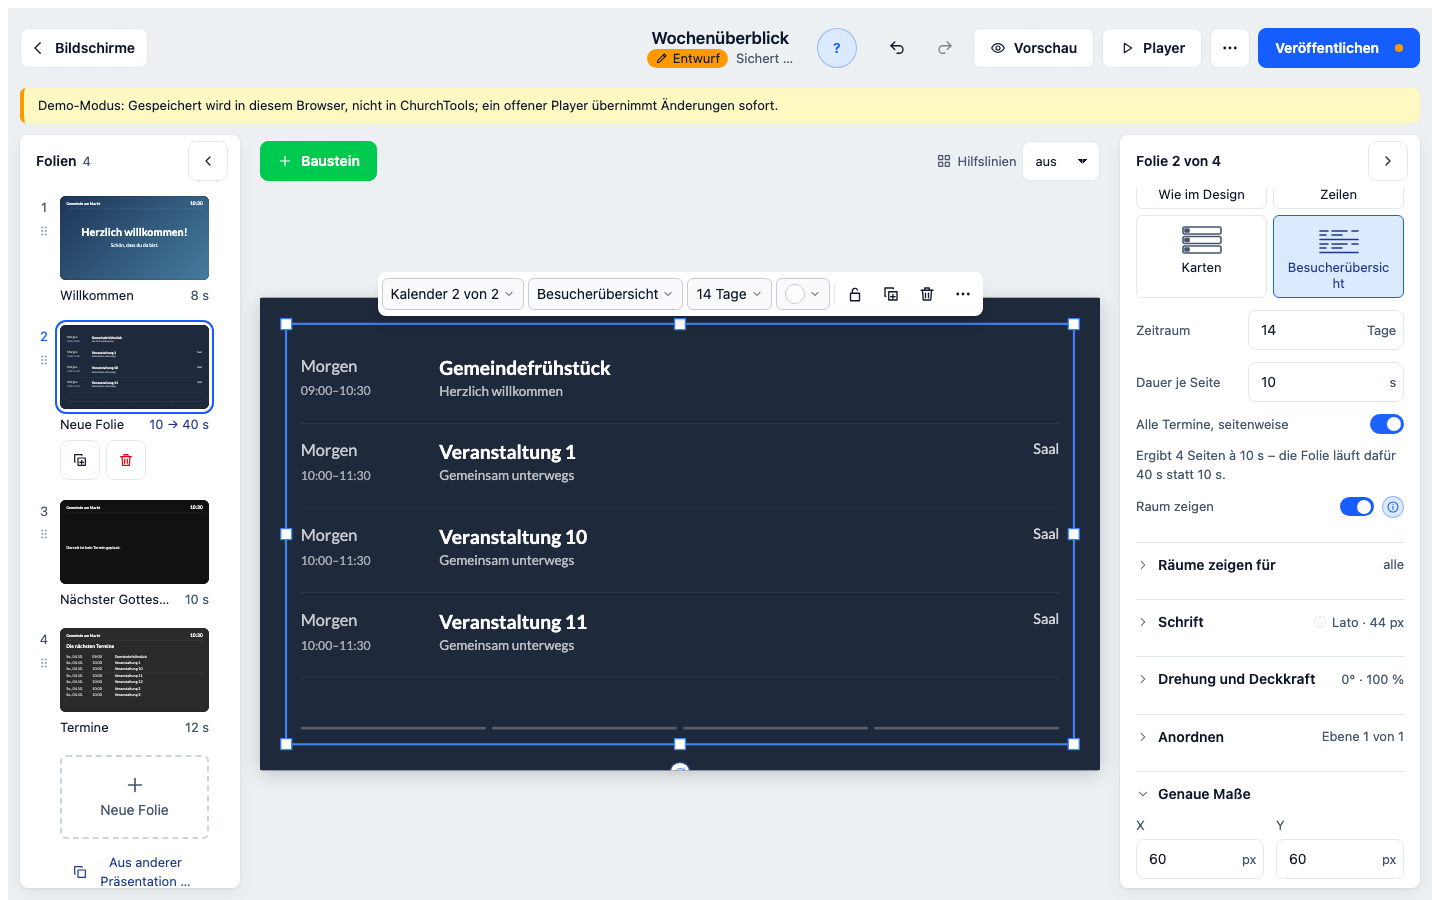
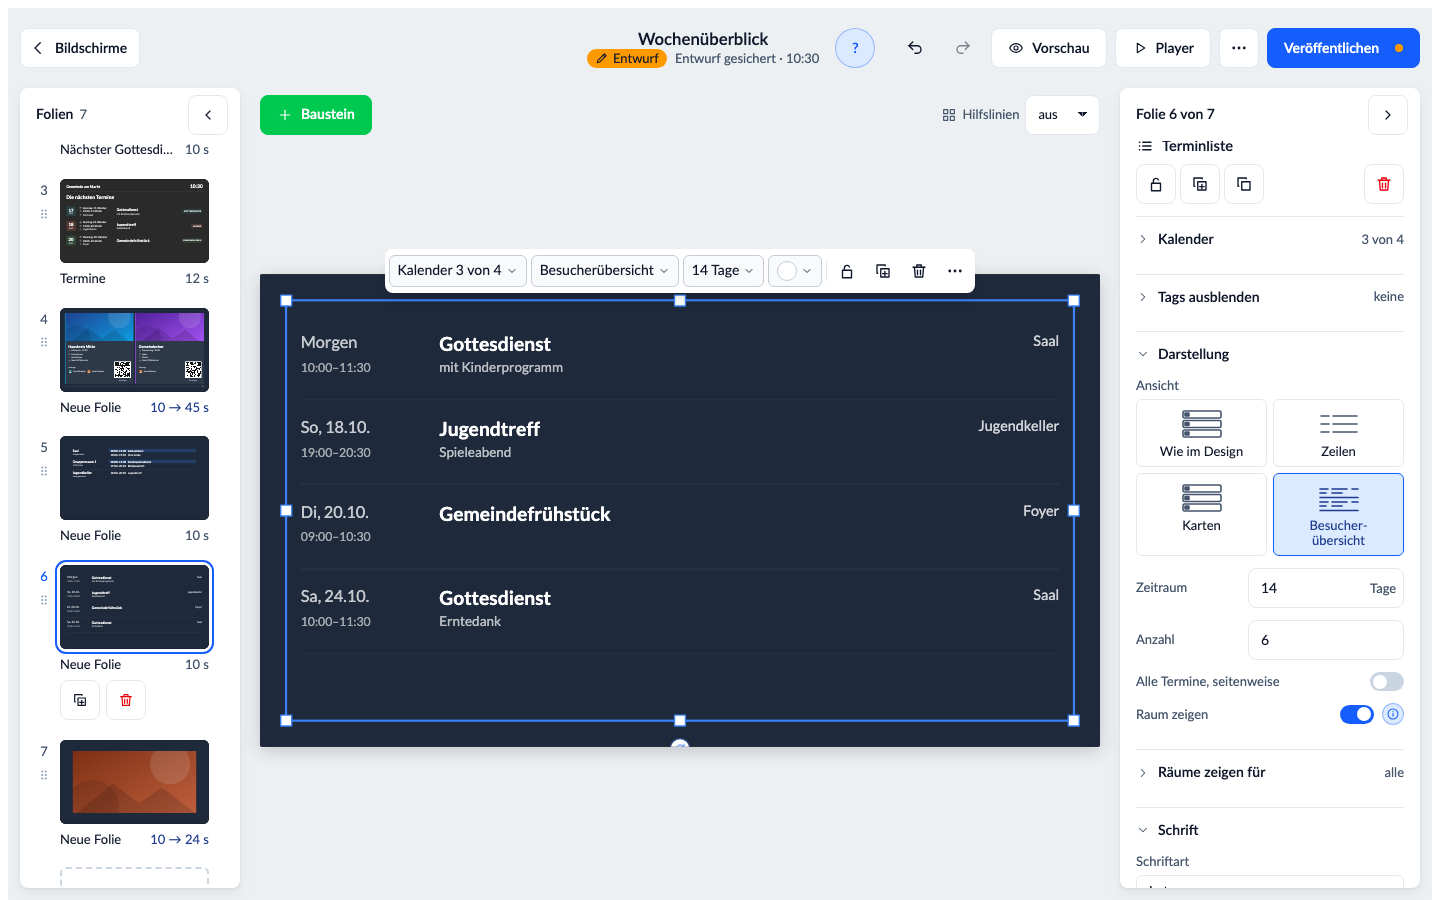
Besucheruebersicht: Raum vor Ort, Schema 1.43, Doku-Bild im Bilder-Test
Die rechte Spalte nennt den gebuchten Raum und ohne Raum den eingetragenen
Ort: Besucher im Foyer suchen den Weg im Haus, und als Ort stuende oft ueberall
derselbe Gemeindename. Ein Termin nur mit Adresse zeigt damit etwas.

Schema 1.41 und 1.42 sind mit Vorlagen und Aufteilung belegt, daher 1.43. Das
Doku-Bild entsteht jetzt in docs-screenshots.spec.ts statt in rooms.spec.ts,
der Kachelname trennt an der Fuge, der Arbeitsabschnitt in Plan.md entfaellt.

diff --git a/e2e/rooms.spec.ts b/e2e/rooms.spec.ts
@@ -686,7 +686,7 @@ test('visitor overview is offered by the appointment list and shares its rooms a
         return host === '127.0.0.1' || host === 'localhost' ? route.continue() : route.abort();
     });
     const appointments = [
-        scheduled(19, GOTTESDIENSTE, 'Gemeindefrühstück', '2026-10-04T07:00:00Z', { subtitle: 'Herzlich willkommen' }),
+        scheduled(19, GOTTESDIENSTE, 'Gemeindefrühstück', '2026-10-04T07:00:00Z', { subtitle: 'Herzlich willkommen', place: 'Marktplatz 1' }),
         ...Array.from({ length: 12 }, (_, i) => scheduled(i + 20, GOTTESDIENSTE, `Veranstaltung ${i + 1}`, '2026-10-04T08:00:00Z', { subtitle: 'Gemeinsam unterwegs', place: 'Eingetragener Ort', rooms: [1] })),
     ];
     // A custom resource type must be chosen in the upstream settings before the visitor layout uses its rooms.
@@ -706,7 +706,7 @@ test('visitor overview is offered by the appointment list and shares its rooms a
     await newBlock(page, 'appointment-list');
     await expect(page.getByTestId('section-appearance')).not.toHaveAttribute('open');
     await openSection(page, 'appearance');
-    await expect(page.getByTestId('list-layout').getByText('Besucherübersicht', { exact: true })).toBeVisible();
+    await expect(page.getByTestId('list-layout').getByText(/^Besucher\u00ad?übersicht$/)).toBeVisible();
     await choose(page, 'list-layout', 'visitor');
     await page.getByTestId('section-appearance-toggle').click();
     await expect(page.getByTestId('section-appearance-toggle')).toContainText('Besucherübersicht · 14 Tage');
@@ -726,7 +726,8 @@ test('visitor overview is offered by the appointment list and shares its rooms a
     await page.getByTestId('show-all').check();
     const preview = stage(page).locator('.paged--visitor');
     await expect(preview.getByTestId('list-visitor-row').first()).toContainText('Gemeindefrühstück');
-    await expect(preview.getByTestId('list-visitor-room').first()).toHaveText('');
+    // Rooms before the place: without a room the place stands, with one only the room.
+    await expect(preview.getByTestId('list-visitor-room').first()).toHaveText('Marktplatz 1');
     await expect(preview.getByTestId('list-visitor-row').nth(1)).toContainText('Gemeinsam unterwegs');
     await expect(preview.getByTestId('list-visitor-room').nth(1)).toHaveText('Saal');
     await expect(preview.getByTestId('list-visitor-room').nth(1)).toHaveCSS('text-align', 'right');
@@ -735,11 +736,10 @@ test('visitor overview is offered by the appointment list and shares its rooms a
     // Existing room choices affect the names, never the appointments.
     const count = await preview.getByTestId('list-visitor-row').count();
     await page.getByTestId('show-rooms').uncheck();
-    await expect(preview.getByTestId('list-visitor-room').nth(1)).toHaveText('');
+    await expect(preview.getByTestId('list-visitor-room').nth(1)).toHaveText('Eingetragener Ort');
     await expect(preview.getByTestId('list-visitor-row')).toHaveCount(count);
     await page.getByTestId('show-rooms').check();
     await expect(preview.getByTestId('list-visitor-room').nth(1)).toHaveText('Saal');
-    await page.screenshot({ path: 'docs/bilder/terminliste-besucher.png' });
     // Put the selected slide first, regardless of where new slides are inserted.
     await nudgeRow(page.locator('[data-testid="slide-item"].active').getByTestId('slide-handle'), 'ArrowUp');
     await page.keyboard.press('ArrowUp');

diff --git a/src/player/visitor-list.test.ts b/src/player/visitor-list.test.ts
@@ -59,7 +59,7 @@ describe('visitor overview as a layout of the appointment list', () => {
         expect(appointmentServiceIds(block({ services: [1] }))).toEqual([]);
     });
 
-    it('shows dates over times, subtitles and actual booked rooms without replacing them with the address', async () => {
+    it('shows dates over times, subtitles and the booked rooms before the place', async () => {
         const { wrapper } = render();
         await flushPromises();
         const rows = wrapper.findAll('[data-testid="list-visitor-row"]');
@@ -69,24 +69,24 @@ describe('visitor overview as a layout of the appointment list', () => {
         expect(rows[0]!.find('.visitor-subtitle').text()).toBe('Gemeinsam essen');
         expect(rows[0]!.find('[data-testid="list-visitor-room"]').text()).toBe('Saal');
         expect(rows[1]!.find('.visitor-title').text()).toBe('Termin 2');
-        expect(rows[1]!.find('[data-testid="list-visitor-room"]').text()).toBe('');
+        expect(rows[1]!.find('[data-testid="list-visitor-room"]').text()).toBe('Eingetragener Ort');
         expect(rows[2]!.find('.visitor-subtitle').exists()).toBe(false);
         expect(wrapper.find('.paged').attributes('style')).toContain('color: rgb(171, 205, 239)');
         expect(wrapper.find('.paged').attributes('style')).not.toContain('background');
         wrapper.unmount();
     });
 
-    it('uses the existing room switches without removing appointments', async () => {
+    it('uses the existing room switches without removing appointments, the place standing in', async () => {
         const { wrapper, list } = render({ roomsOffIds: [1], roomsInRows: false });
         await flushPromises();
         expect(wrapper.findAll('[data-testid="list-visitor-row"]')).toHaveLength(3);
-        expect(wrapper.findAll('[data-testid="list-visitor-room"]').map((r) => r.text())).toEqual(['', '', '']);
+        expect(wrapper.findAll('[data-testid="list-visitor-room"]').map((r) => r.text())).toEqual(['Eingetragener Ort', 'Eingetragener Ort', 'Eingetragener Ort']);
         list.roomsOffIds = [];
         await flushPromises();
         expect(wrapper.find('[data-testid="list-visitor-room"]').text()).toBe('Saal');
         list.roomsOffCalendarIds = [1];
         await flushPromises();
-        expect(wrapper.findAll('[data-testid="list-visitor-room"]').every((r) => !r.text())).toBe(true);
+        expect(wrapper.findAll('[data-testid="list-visitor-room"]').every((r) => r.text() === 'Eingetragener Ort')).toBe(true);
         expect(wrapper.findAll('[data-testid="list-visitor-row"]')).toHaveLength(3);
         wrapper.unmount();
     });

diff --git a/src/player/format.test.ts b/src/player/format.test.ts
@@ -1,6 +1,6 @@
 import { describe, expect, it } from 'vitest';
 import type { Block, TextStyle } from '../model/schema';
-import { textStyle, calendarColor, formatDate, formatShortDate, formatTime, placeLine, servicesLine, sizedImageUrl, WIDEST_DATE, textOn, VERTICAL_DEFAULTS, verticalAlignOf, verticalStyle } from './format';
+import { textStyle, calendarColor, formatDate, formatShortDate, formatTime, placeLine, servicesLine, visitorPlace, sizedImageUrl, WIDEST_DATE, textOn, VERTICAL_DEFAULTS, verticalAlignOf, verticalStyle } from './format';
 
 describe('sizedImageUrl', () => {
     it('always sets both dimensions, because w alone yields a 150 px high image (G14)', () => {
@@ -185,5 +185,13 @@ describe('placeLine (Plan.md 82)', () => {
         expect(placeLine({ location: 'Gemeindezentrum' }, ['Saal'])).toBe('Gemeindezentrum');
         expect(placeLine({ location: null }, ['Saal', 'Raum 01'])).toBe('Saal, Raum 01');
         expect(placeLine({ location: null }, [])).toBeNull();
+    });
+});
+
+describe('visitorPlace', () => {
+    it('puts the rooms before the place, and names the place without one', () => {
+        expect(visitorPlace({ location: 'Gemeindezentrum' }, ['Saal', 'Raum 01'])).toBe('Saal, Raum 01');
+        expect(visitorPlace({ location: 'Marktplatz 1' }, [])).toBe('Marktplatz 1');
+        expect(visitorPlace({ location: null }, [])).toBeNull();
     });
 });

diff --git a/src/i18n/designer.ts b/src/i18n/designer.ts
@@ -557,6 +557,8 @@ export const t = {
         layoutDesign: 'Wie im Design',
         layoutRows: 'Zeilen',
         layoutVisitor: 'Besucherübersicht',
+        /** The tile is narrow: the soft hyphen breaks the word at its seam, not between two letters. */
+        layoutVisitorTile: 'Besucher\u00adübersicht',
         layoutCards: 'Karten',
         layoutClassic: 'Schlicht',
         layoutCard: 'Hervorgehoben',
@@ -572,7 +574,7 @@ export const t = {
         showCalendar: 'Kalender zeigen',
         showRoomInfo: (visitor = false) =>
             (visitor
-                ? 'Zeigt die ausgewählten gebuchten Räume rechtsbündig, unabhängig vom eingetragenen Ort. Termine ohne Raum bleiben sichtbar. '
+                ? 'Zeigt die ausgewählten gebuchten Räume rechtsbündig; hat ein Termin keinen, steht dort der eingetragene Ort. Termine ohne Raum bleiben sichtbar. '
                 : 'Zeigt die gebuchten Räume des Termins: in Zeilen am Ende der Zeile, bei Karten und beim nächsten Termin mit der Pin-Nadel. Ein eingetragener Ort geht vor, damit nichts doppelt steht. ') +
             'Nur bestätigte Buchungen, keine, die noch warten. Damit der Fernseher sie sieht, bekommt das Gerät mit „Rechte aktualisieren“ ' +
             'das Recht, alle Räume zu sehen; zeigt kein Bildschirm mehr Räume an Terminen, nimmt „Rechte aktualisieren“ es zurück.',

diff --git a/src/player/blocks/AppointmentRow.vue b/src/player/blocks/AppointmentRow.vue
@@ -7,7 +7,7 @@
  */
 import { computed } from 'vue';
 import type { Appointment } from '../../appointments/normalize';
-import { formatDate, formatShortDate, WIDEST_DATE, placeLine, servicesLine, timeRange } from '../format';
+import { formatDate, formatShortDate, WIDEST_DATE, placeLine, servicesLine, visitorPlace, timeRange } from '../format';
 import CalendarBadge from './CalendarBadge.vue';
 import DateTile from './DateTile.vue';
 import { tp } from '../../i18n/player';
@@ -86,7 +86,7 @@ const visitorDate = computed(() => {
             <span class="visitor-title">{{ appointment.title }}</span>
             <span v-if="appointment.subtitle" class="visitor-subtitle">{{ appointment.subtitle }}</span>
         </span>
-        <span class="visitor-room" :data-testid="measuring ? undefined : 'list-visitor-room'">{{ showRooms ? (roomNames ?? []).join(', ') : '' }}</span>
+        <span class="visitor-room" :data-testid="measuring ? undefined : 'list-visitor-room'">{{ visitorPlace(appointment, showRooms ? roomNames ?? [] : []) }}</span>
     </li>
     <li v-else class="row" :class="{ 'row--place': rowPlace }">
         <span class="when">{{ formatShortDate(appointment.start, timeZone) }}</span>

diff --git a/e2e/docs-screenshots.spec.ts b/e2e/docs-screenshots.spec.ts
@@ -493,6 +493,16 @@ test('pictures for the documentation', async ({ page, baseURL }) => {
     await expect(page.locator('.editor-stage').getByTestId('room-row')).toHaveCount(3);
     await shoot(page, 'raumbelegung');
 
+    // The visitor overview of the appointment list (PR #111): the booked room where there is one, else the place.
+    await page.getByTestId('add-slide').click();
+    await addBlock(page, 'appointment-list');
+    await frame(page, { x: 60, y: 60, width: 1800, height: 960 });
+    await openSection(page, 'appearance');
+    await choose(page, 'list-layout', 'visitor');
+    await page.getByTestId('show-rooms').check();
+    await expect(page.locator('.editor-stage').getByTestId('list-visitor-room').first()).toHaveText('Saal');
+    await shoot(page, 'terminliste-besucher');
+
     // Posts of ChurchTools groups (Plan.md 33).
     await page.getByTestId('add-slide').click();
     await addBlock(page, 'posts');

diff --git a/src/player/format.ts b/src/player/format.ts
@@ -186,6 +186,15 @@ export function placeLine(appointment: { location: string | null }, roomNames: r
 }
 
 /**
+ * The right column of the visitor overview: the rooms first, the place where none is named. There a visitor looks
+ * for the way through the house, and a place like the church's name would stand alike on every line – the other way
+ * round from `placeLine`. `roomNames`: the rooms this block names; null when there is nothing to say.
+ */
+export function visitorPlace(appointment: { location: string | null }, roomNames: readonly string[]): string | null {
+    return roomNames.join(', ') || appointment.location || null;
+}
+
+/**
  * The service line of an appointment: "Predigt: Anna Beispiel · Moderation: Ben Muster, Cora Test".
  * Only the services this block chose, in the order of the appointment's own list; null when there
  * is nothing to say (Plan.md, Nächste Schritte 51).

diff --git a/src/store/screen-repository.test.ts b/src/store/screen-repository.test.ts
@@ -806,7 +806,7 @@ describe('ScreenRepository', () => {
         it('saves new, updates against the revision and reports a conflict with the stored name', async () => {
             const first = await repo.saveTemplate(head, { expectedRevision: null, updatedBy: 'Anna' });
             expect(first).toMatchObject({ kind: 'template', revision: 1, updatedBy: 'Anna', name: 'Seitenkopf' });
-            expect(first.schema).toEqual({ major: 1, minor: 42 });
+            expect(first.schema).toEqual({ major: 1, minor: 43 });
             const second = await repo.saveTemplate({ ...head, name: 'Kopf' }, { expectedRevision: 1, updatedBy: 'Ben' });
             expect(second.revision).toBe(2);
             const error = await repo.saveTemplate({ ...head, name: 'Dritter' }, { expectedRevision: 1, updatedBy: 'Cleo' }).catch((e: unknown) => e);

diff --git a/src/designer/inspector/layouts.test.ts b/src/designer/inspector/layouts.test.ts
@@ -28,7 +28,7 @@ describe('the picture tiles of the blocks (Plan.md 79, B2)', () => {
     });
 
     it('offers the visitor overview as another layout of the existing appointment list', () => {
-        expect(appointmentListTiles(listBlock(), nativeTheme).find((tile) => tile.value === 'visitor')).toMatchObject({ label: 'Besucherübersicht', pictogram: 'list-visitor' });
+        expect(appointmentListTiles(listBlock(), nativeTheme).find((tile) => tile.value === 'visitor')).toMatchObject({ label: 'Besucher\u00adübersicht', pictogram: 'list-visitor' });
     });
 
     it('"Wie im Design" ignores the layout the block itself has: it names the theme', () => {

diff --git a/src/designer/inspector/layouts.ts b/src/designer/inspector/layouts.ts
@@ -12,7 +12,7 @@ export function appointmentListTiles(block: Extract<Block, { type: 'appointment-
         { value: '', label: t.inspector.layoutDesign, pictogram: listLayout({ ...block, layout: undefined }, theme) === 'cards' ? 'list-cards' : 'list-rows' },
         { value: 'rows', label: t.inspector.layoutRows, pictogram: 'list-rows' },
         { value: 'cards', label: t.inspector.layoutCards, pictogram: 'list-cards' },
-        { value: 'visitor', label: t.inspector.layoutVisitor, pictogram: 'list-visitor' },
+        { value: 'visitor', label: t.inspector.layoutVisitorTile, pictogram: 'list-visitor' },
     ];
 }
 

diff --git a/src/model/schema.ts b/src/model/schema.ts
@@ -162,7 +162,7 @@ export const AppointmentListBlock = v.object({
     /**
      * Since 1.8: `cards` – date tile, calendar badge, title, time and place, after
      * the list of the WordPress plugin (Plan.md, 20); `rows` is the plain list.
-     * Since 1.43: `visitor` – generous rows with date/time, subtitle and a separate room column.
+     * Since 1.43: `visitor` – generous rows with date/time, subtitle and a place column, the rooms before the place.
      */
     layout: v.optional(v.picklist(['rows', 'cards', 'visitor'])),
     /**

diff --git a/Plan.md b/Plan.md
@@ -11,7 +11,7 @@ Ein ChurchTools Custom Module (CCM), mit dem angemeldete ChurchTools-Anwender In
 **Offen, nach Rang** *(Maßstab ist der Pitch)*:
 
 1. **Rückmeldung des zweiten Testers abwarten** (Archiv, Punkt 85) – der Nutzer hat ihm geschrieben und wartet auf seine Antwort (2026-10-15): „Kalender zeigen“ seit `v0.21.0`, Social Media hat seit `v0.20.1` die Schrift, interne Kalender lassen sich seit `v0.23.0` freigeben.
-2. **PR #111 von Bernhard: „Besucherübersicht“ als vierte Darstellung der Terminliste** – durchgesehen am 2026-10-16, gut gemacht, vor dem Merge offen: (1) Schema 1.41 ist mit den Vorlagen belegt, 1.42 mit der Aufteilung – er braucht 1.43; (2) sein Abschnitt „Aktueller Auftrag“ gehört nicht in `Plan.md`; (3) das Doku-Bild schreibt ein Test in `rooms.spec.ts` statt `docs-screenshots.spec.ts`; (4) „Besucherübersicht“ bricht in der Kachel mitten im Wort. Zur Entscheidung beim Nutzer: dort steht der Raum statt des Orts (Abweichung von „Ort geht vor Raum“, `v0.17.1`), ein Termin nur mit Adresse zeigt rechts nichts. **Wird nach Paket B separat angegangen** (Nutzer, 2026-10-16); offen, ob Kommentar an Bernhard oder Korrektur beim Merge.
+2. **PR #111 von Bernhard: „Besucherübersicht“ als vierte Darstellung der Terminliste** – Anwendungsfall: ein Bildschirm im Eingang, an dem Besucher sehen, was heute und morgen läuft und in welchem Raum. Die Raumbelegung deckt das nicht ab (Buchungen statt Termine, nach Räumen statt nach Zeit). **Entschieden am 2026-10-16 (Nutzer):** seine Darstellung übernehmen statt „Zeilen“ zu erweitern; rechts gilt **„Raum vor Ort“** (`visitorPlace`), bewusst anders als „Ort geht vor Raum“ in Zeilen und Karten, weil der Ort oft überall derselbe Gemeindename wäre; die Korrekturen machen wir selbst auf seinem Zweig. **Erledigt auf dem Zweig:** main (`v0.28.0`) eingeführt, Schema 1.43, sein Abschnitt aus `Plan.md` entfernt, Doku-Bild aus `docs-screenshots.spec.ts`, weiches Trennzeichen im Kachelnamen. Offen: Kommentar an Bernhard, Merge, Release.
 3. **Wiederverwendbare Designs** (Punkt 87) – Idee von Bernhard (2026-10-15). **Paket A, verknüpfte Vorlagen (Schema 1.41), ist mit `v0.27.0` veröffentlicht, Paket B, die Aufteilung der Folie samt „Im Bereich fest“ und Einrasten beim Ziehen (Schema 1.42), mit `v0.28.0` (beide 2026-10-16).** Die Stile für Listen-Bausteine warten auf Bernhards Antwort, was er mit „Sammlungen“ meint.
 4. **Der Designer für alle** (Punkt 79) – gestalten ohne Technikhintergrund, am Handy wie am Rechner. Reihenfolge: **B1** Begriffe (Folie, Präsentation, Bildschirm) und eine Textdatei → **A** Ordnung auf der Fläche (Bauplan fertig) → **B2** ein Wort, ein Bedienelement je Sache → **B3** neuer Look → **C** Kurzmenü, Text auf der Fläche, Bedienung mit dem Finger → **E** Entwurf und Veröffentlichen → **D** mehrere Bausteine → **F** Kreativ. 17 Fragen mit dem Nutzer geklärt am 2026-10-08/09; offen sind die Testpersonen (Seitenrand: später). **Seit dem 2026-10-14 läuft der neue Designer auf der Produktivinstanz (`v0.19.1`)** – damit sind die Abnahme am Tablet und die Testpersonen dran.
    **Stand 2026-10-10:** **B1 bis F3 und der Baustein „Social Media“ (Punkt 80) sind gebaut und mit `v0.19.0` veröffentlicht.** Der Nutzer prüft per lokalem ZIP auf der Testinstanz. **C und E sind vom Nutzer abgenommen (2026-10-10), D bis auf die Rückmeldung unten.** Die Doku (`docs/Funktionen.md`, `docs/Onboarding.md`, `README.md`, alle Bilder samt `mehrere.png`) ist für C, D und E nachgezogen; die Bilder-Strecke lief seit C rot (eine eingefrorene Uhr ließ Vue den Klick auf einen Baustein verwerfen) und läuft wieder. **Rückmeldung zu D** *(Nutzer am Tablet, 2026-10-10; gebaut am selben Tag)*: (1) Die Knöpfe unter „Anordnen“ stießen an den Rand – jetzt eine Zeile je Achse, drei Kanten und daneben Verteilen. (2) Eine gewählte Gruppe richtete beim Ausrichten ihre Mitglieder gegeneinander aus – jetzt zählt sie wie ein Baustein: allein richtet sie sich an der Folie aus, mit anderen bewegt sie sich als Einheit, beim Verteilen zählt sie einfach (`unitsOf` in `arrange.ts`). (3) Am Tablet passte die Höhe nicht, der Inspektor musste gescrollt werden – der Editor nimmt jetzt `100dvh` statt `100vh`; das reichte nicht (Nutzer, 2026-10-10): Am iPad setzt ChurchTools nach dem Modul einen 56 px hohen App-Banner über die Kopfleiste, den die Messung des Abstands nach oben nicht bemerkte (Befunde.md G57) – jetzt beobachtet sie jedes Kind von `<body>`. (4) Die Kacheln der Mediathek-Seite haben ein „…“ mit „Löschen“ (Rest aus B3). **D ist abgenommen** (Nutzer, 2026-10-10), zuletzt die Gruppen in den Ebenen (Teil 5 unter Punkt 79, D9). **F1, F2 und F3 sind gebaut** *(Nutzer, 2026-10-10: „F1–F3 jetzt“, statt erst nach dem Mergen)* – als Fortsetzung der Kette `designer-d` → `designer-f1` → `designer-f2` → `designer-f3`, Schema 1.30 bis 1.32; die Abnahme am Tablet steht aus (Drehgriff und Ausschnitt mit dem Finger sind nur mit der Maus geprüft), die Bilder der Doku zeigen F seit dem 2026-10-10 (neu `gestalten.png`). **F4** (Bewegung beim Einblenden) wartet auf die Messung am Pi nach P4. **Danach** *(Nutzer, 2026-10-10)*: Testpersonen für die Abnahme planen, sobald der neue Designer auf der Produktivinstanz läuft; der Seitenrand (D8) bleibt später. **Gemergt und veröffentlicht am 2026-10-10** (#80 bis #90, Versions-PR #91, Tag `v0.19.0`); die Branch-Kette ist durch. Die alten Zweige `designer-*` und `merge/designer-*` auf GitHub sind übrig.
